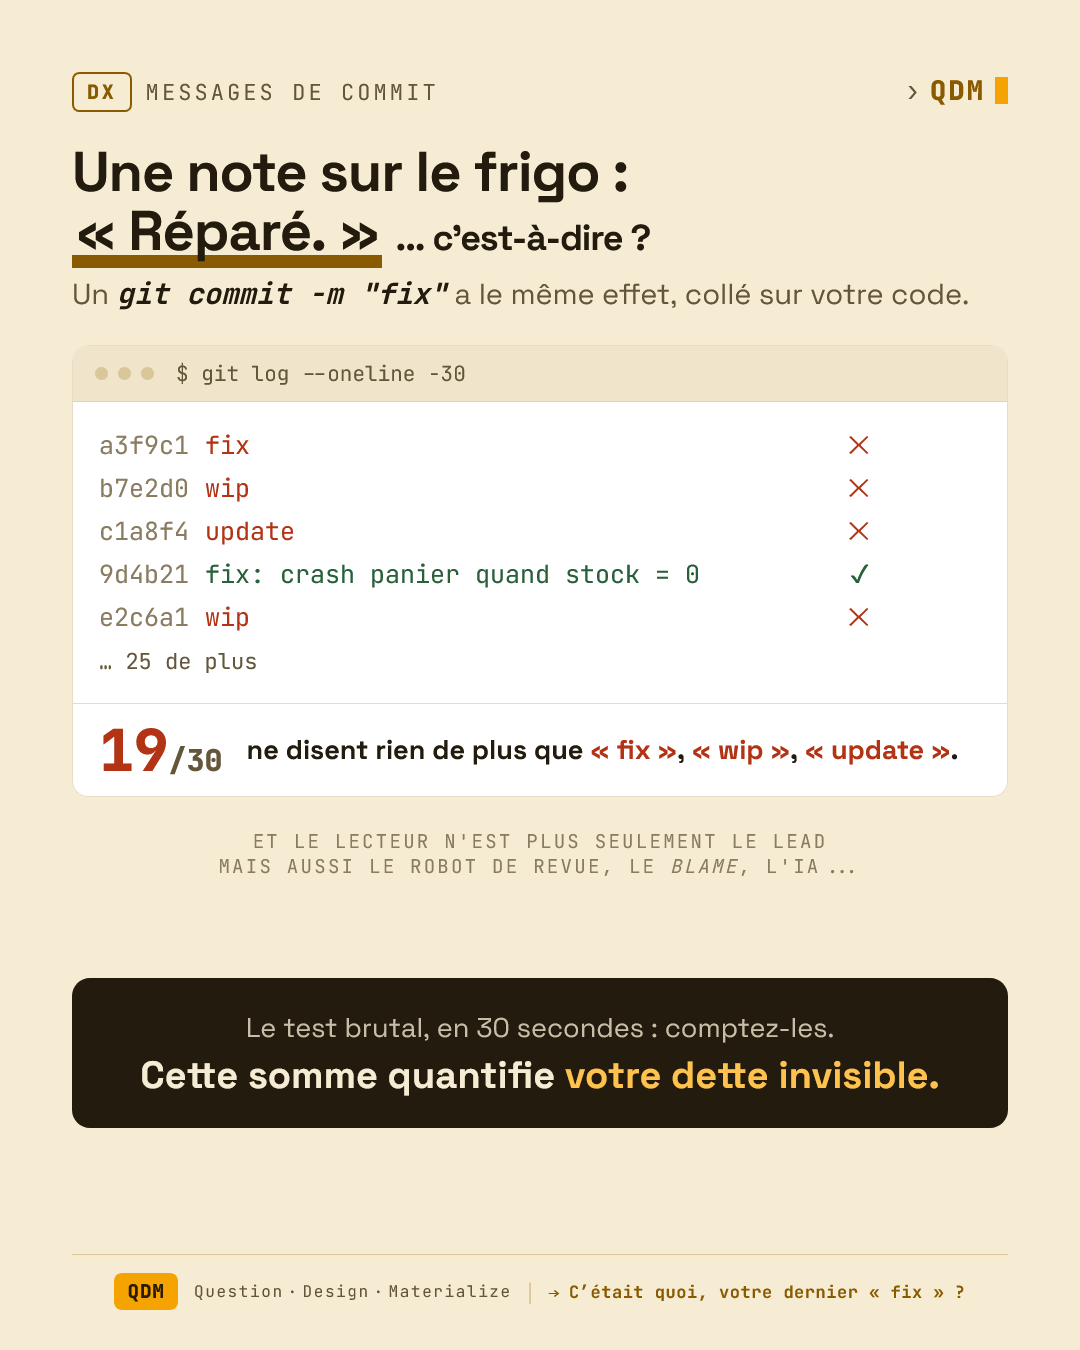
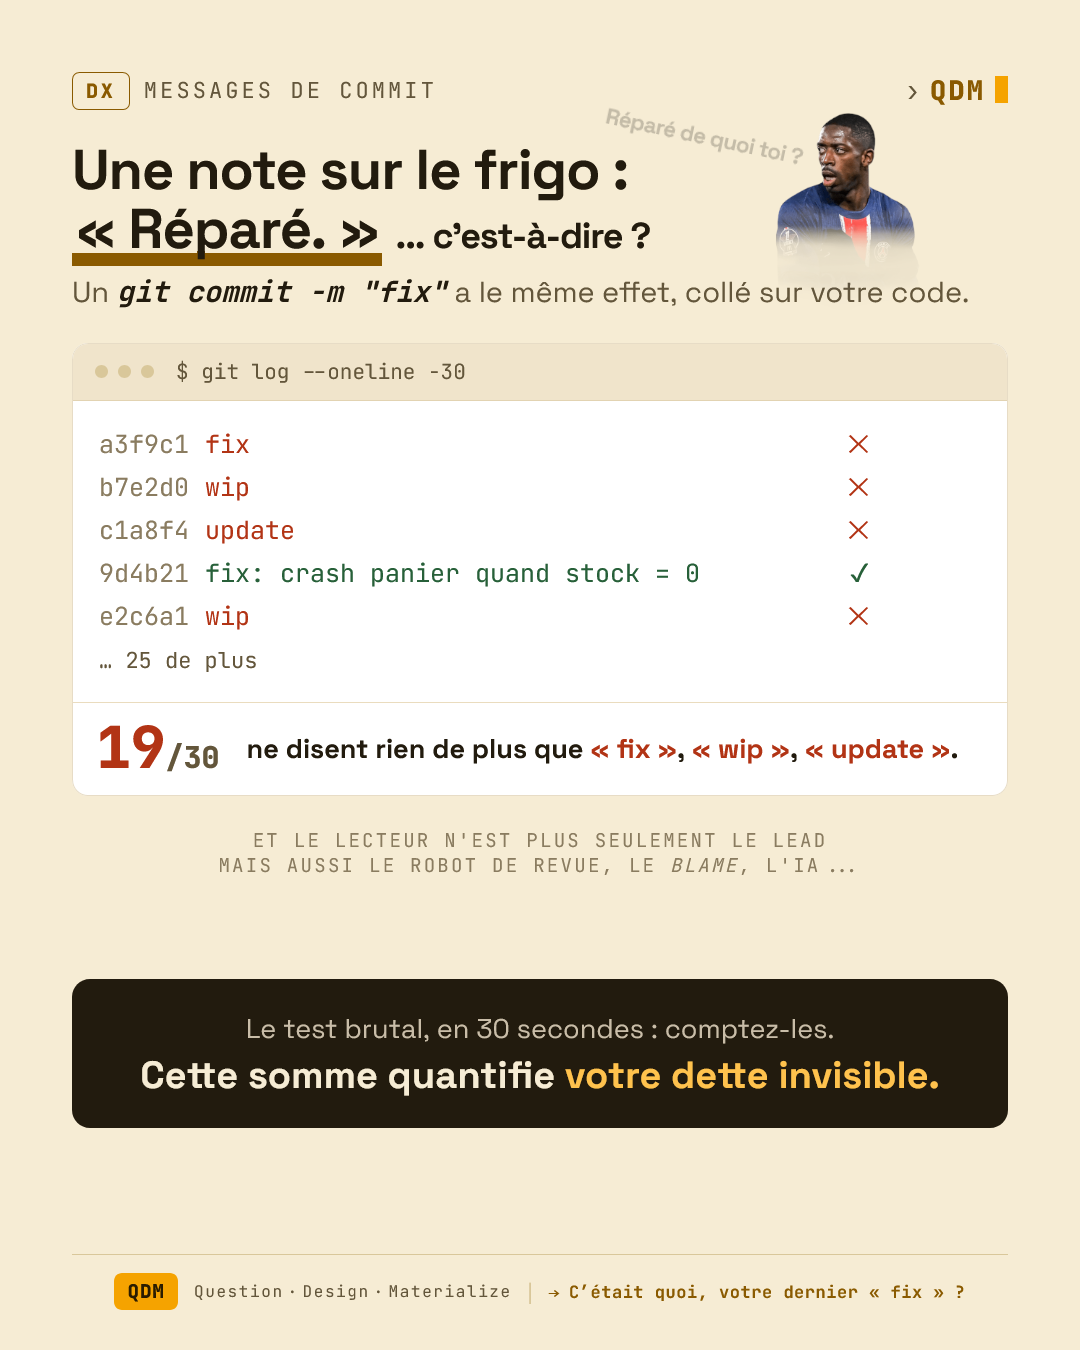
improve post titlings, repair tsc

diff --git a/astro/src/domain/post-collection.ts b/astro/src/domain/post-collection.ts
@@ -1,16 +1,16 @@
 import type { Post } from './post';
 import { CATEGORIES, type Category } from './category';
 
-/** Une ligne de la grille : une rubrique et ses posts, triés. */
+// ? Une ligne de la grille : une rubrique et ses posts, triés.
 export interface ThemeRow {
 	readonly category: Category;
 	readonly posts: readonly Post[];
 }
 
 /**
- * Regroupe les posts en lignes thématiques, dans l'ordre canonique des rubriques
- * ({@link CATEGORIES}). Chaque ligne est triée par `order` puis `id`.
- * Les rubriques sans post sont omises (la grille reste extensible).
+ * ? Regroupe les posts en lignes thématiques, dans l'ordre canonique des rubriques
+ * ? ({@link CATEGORIES}). Chaque ligne est triée par `order` puis `id`.
+ * * Les rubriques sans post sont omises (la grille reste extensible).
  */
 export function groupByTheme(posts: readonly Post[]): ThemeRow[] {
 	const rows: ThemeRow[] = [];

diff --git a/astro/src/astro-modules.d.ts b/astro/src/astro-modules.d.ts
@@ -1,0 +1,8 @@
+// Permet à un `tsc --noEmit` brut de résoudre les imports de composants `.astro`
+// (ex. Container API dans les tests). `astro check` les résout précisément via
+// son serveur de langage — cette déclaration wildcard n'entre en jeu que pour tsc.
+// Type conforme au paramètre `component` de `renderToString` (API Container).
+declare module '*.astro' {
+	const Component: import('astro/runtime/server/index.js').AstroComponentFactory;
+	export default Component;
+}

diff --git a/astro/tests/integration/post-grid.test.ts b/astro/tests/integration/post-grid.test.ts
@@ -13,7 +13,7 @@ beforeAll(async () => {
 	container = await AstroContainer.create();
 });
 
-function row(category: ThemeRow['Feature: category vocabulary'], n: number): ThemeRow {
+function row(category: ThemeRow['category'], n: number): ThemeRow {
 	return {
 		category,
 		posts: Array.from({ length: n }, (_, i) =>
